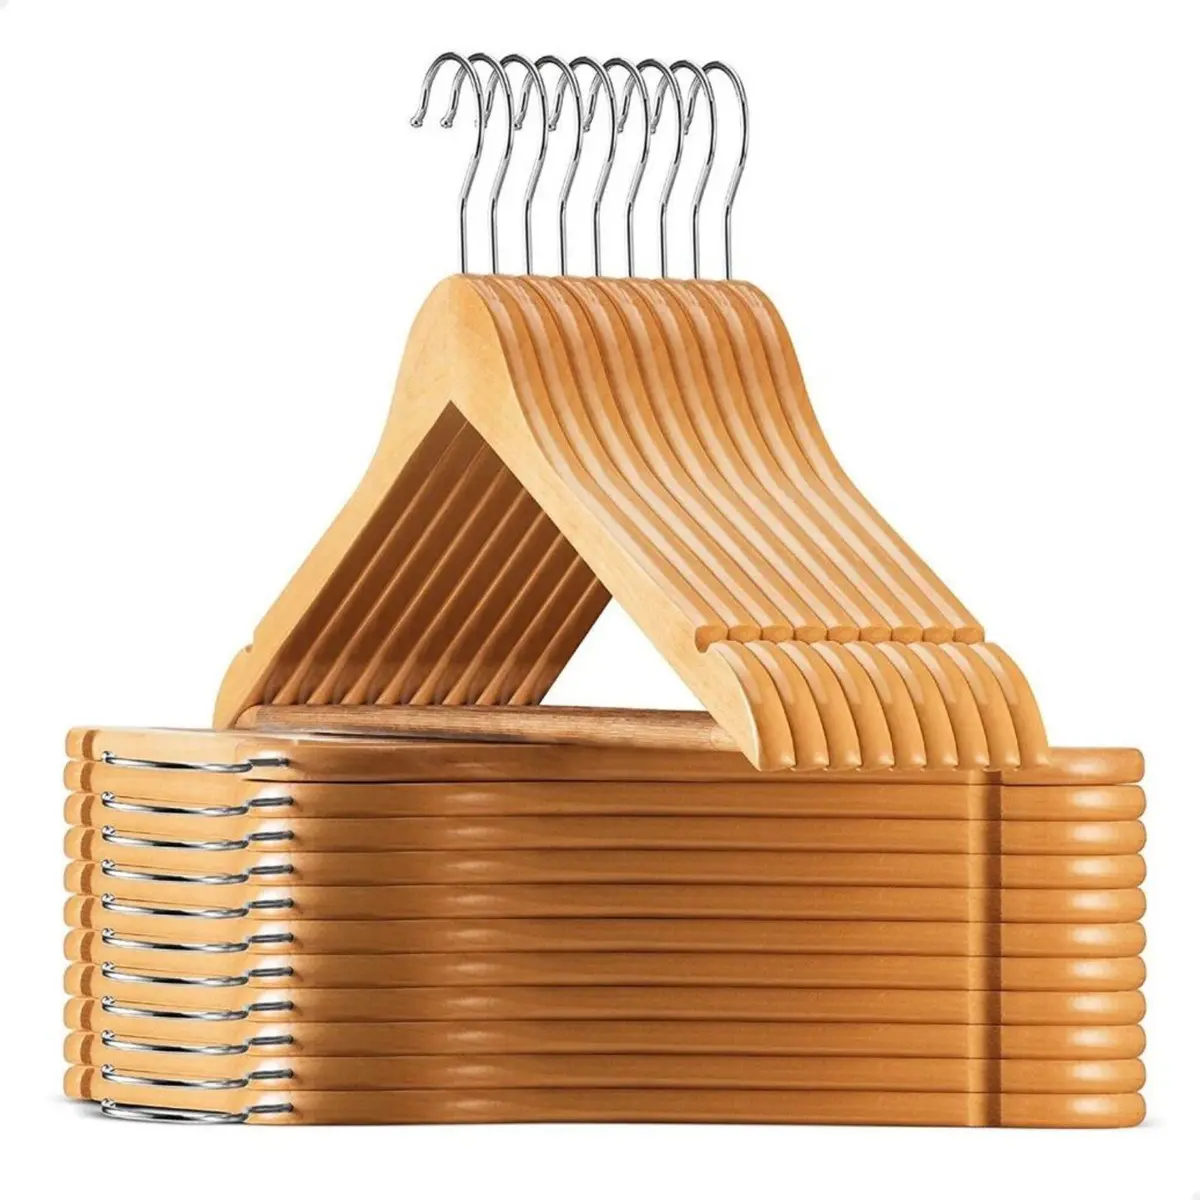
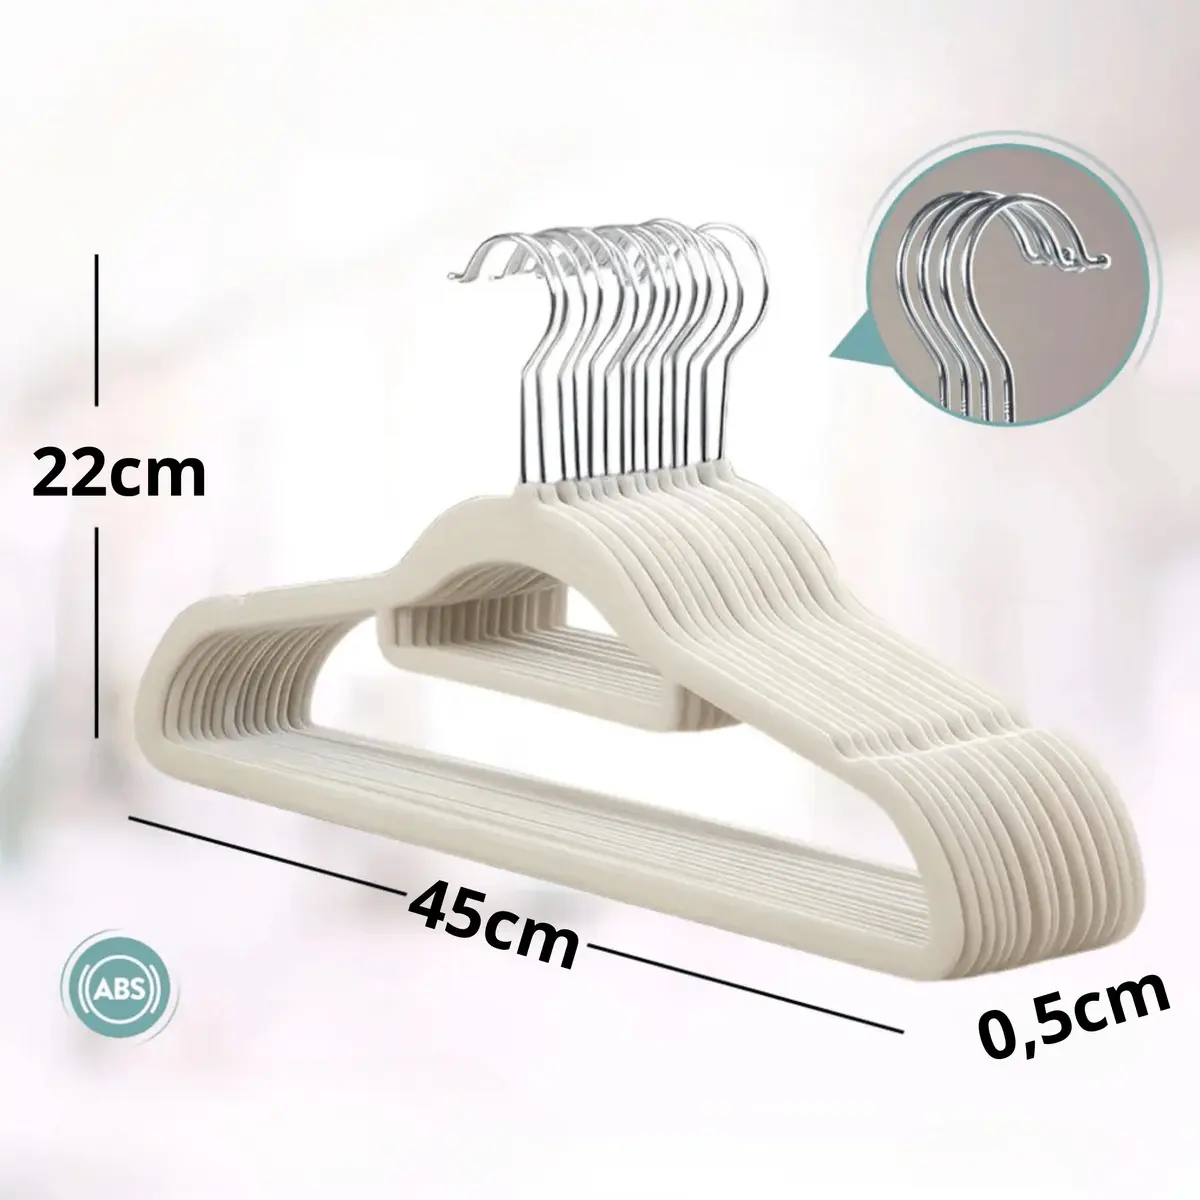
fix: corrige foto e link do cabide antideslizante kit
A foto anterior era de cabide de madeira, não batia com o produto
(cabide antideslizante/flocado). Substitui pela foto real do anúncio
(cabide flocado com dimensões) e atualiza o link de afiliado pro
novo confirmado (meli.la/2mR2YUg).

diff --git a/lib/melhores.ts b/lib/melhores.ts
@@ -931,7 +931,7 @@ export const RANKING_PAGES: RankingPage[] = [
           title: 'Cabide Antideslizante Kit',
           image: '/images/produtos/melhor-cabide-antideslizante.webp',
           price: undefined,
-          affiliateUrl: 'https://meli.la/1KPrXxE',
+          affiliateUrl: 'https://meli.la/2mR2YUg',
           pros: [],
           cons: [],
           lastUpdated: '2026-07-17',